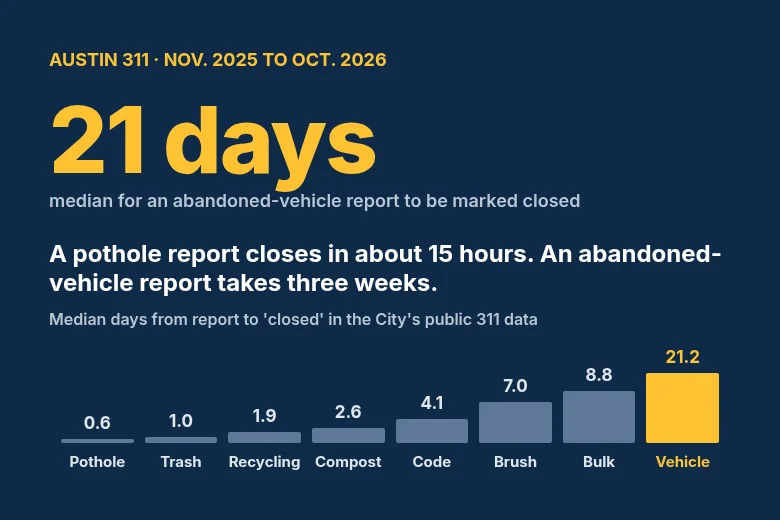
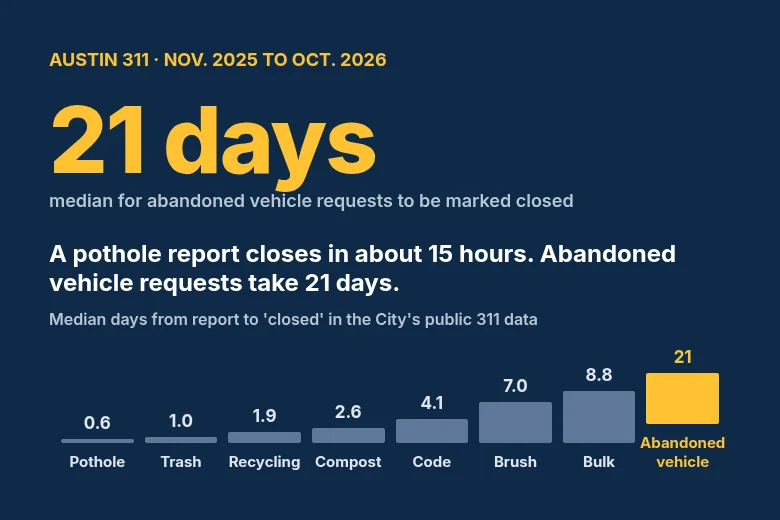
311 page: monthly refresh script and data-driven prose (#108)
* 311 page: monthly refresh script, and prose that follows the data

scripts/refresh-311.mjs (npm run refresh:311) reruns the 311 numbers on the 1st of the month: pulls the new 12-month window, rebuilds data/311-chart.json from the new medians, and re-renders the chart images. The district sentence, page description, chart alt text, dates and month labels are now built from the data in feature311.json instead of hard-coded, and tests guard the remaining prose claims.

* refresh-311: skip only when the page already covers the newest complete month

diff --git a/src/austin-311-response-times/index.md b/src/austin-311-response-times/index.md
@@ -1,7 +1,8 @@
 ---
 layout: layout.njk
 title: "How long Austin takes to close your 311 request"
-description: "An original Austin Bulletin analysis of 273,134 City of Austin 311 service requests from November 2025 through October 2026: how long each common request takes to be marked closed, what each Council district reports most, and what that means when you file one."
+eleventyComputed:
+  description: "{{ feature311.description }}"
 permalink: "/austin-311-response-times/"
 ---
 {%- set d = feature311 -%}
@@ -13,12 +14,12 @@ permalink: "/austin-311-response-times/"
 
 ## How long Austin takes to close your 311 request
 
-**An original Austin Bulletin data analysis. Data: [City of Austin 311 public data]({{ d.dataset }}), every service request created from November 1, 2025 through October 31, 2026, pulled November 24, 2026.** This page measures how long requests stayed open in the City's system. It does not measure whether the work was done well. The City updates the dataset every day, so a live query can differ slightly from the figures here.
+**An original Austin Bulletin data analysis. Data: [City of Austin 311 public data]({{ d.dataset }}), every service request created from {{ d.fromLabel }} through {{ d.toLabel }}, pulled {{ d.generatedLabel }}.** This page measures how long requests stayed open in the City's system. It does not measure whether the work was done well. The City updates the dataset every day, so a live query can differ slightly from the figures here.
 
 <figure class="data-feature-chart">
 <picture>
-<source media="(max-width: 700px)" srcset="/images/features/austin-311-response-times-phone-780.webp">
-<img src="/images/features/austin-311-response-times-desktop-1600.webp" width="1600" height="1067" alt="Bar chart of median days from a 311 report to the City marking it closed, November 2025 to October 2026: pothole 0.6, trash 1.0, recycling 1.9, compost 2.6, code officer visit 4.1, brush 7.0, bulk items 8.8, abandoned vehicle 21.2." loading="eager" decoding="async">
+<source media="(max-width: 700px)" srcset="/images/features/austin-311-response-times-phone-780.webp?v={{ d.generated }}">
+<img src="/images/features/austin-311-response-times-desktop-1600.webp?v={{ d.generated }}" width="1600" height="1067" alt="{{ d.chartAlt }}" loading="eager" decoding="async">
 </picture>
 <figcaption>Median time from report to "closed." Requests marked duplicate and requests still open are left out. Chart: The Austin Bulletin, from <a href="{{ d.dataset }}">City of Austin 311 data</a>.</figcaption>
 </figure>
@@ -73,7 +74,7 @@ Districts are where the request was located. {{ d.noDistrict | commas }} request
 </table>
 </div>
 
-Parking-violation reports lead in Districts 1 and 9. Code-officer requests lead in Districts 3 and 4. Trash leads in Districts 2, 5, 6, 7, 8 and 10. To find your district, use the City's [district lookup](https://www.austintexas.gov/council/district-map). For what the City Council decided about your district, see [Y'all, City Hall](https://yallcityhall.org/).
+{{ d.districtSentence }} To find your district, use the City's [district lookup](https://www.austintexas.gov/council/district-map). For what the City Council decided about your district, see [Y'all, City Hall](https://yallcityhall.org/).
 
 ### How people reach 311, and when
 
@@ -83,9 +84,9 @@ Parking-violation reports lead in Districts 1 and 9. Code-officer requests lead 
 - **{{ m.method }}** (the City's label): [{{ m.n | commas }}]({{ d.methodQuery }})
 {%- endfor %}
 
-Requests rise in spring and early summer. The busiest month was **[{{ (d.months | sort(true, false, "n") | first).label }}]({{ d.monthQuery }})** with {{ (d.months | sort(true, false, "n") | first).n | commas }} requests. The quietest was **[{{ (d.months | sort(false, false, "n") | first).label }}]({{ d.monthQuery }})** with {{ (d.months | sort(false, false, "n") | first).n | commas }}.
+The busiest month was **[{{ (d.months | sort(true, false, "n") | first).label }}]({{ d.monthQuery }})** with {{ (d.months | sort(true, false, "n") | first).n | commas }} requests. The quietest was **[{{ (d.months | sort(false, false, "n") | first).label }}]({{ d.monthQuery }})** with {{ (d.months | sort(false, false, "n") | first).n | commas }}.
 
-<div class="data-months" role="img" aria-label="311 requests by month, November 2025 to October 2026">
+<div class="data-months" role="img" aria-label="311 requests by month, {{ d.period }}">
 {%- set maxMonth = (d.months | sort(true, false, "n") | first).n %}
 {%- for m in d.months %}
 <div class="data-month"><span class="data-month-label">{{ m.short }}</span><span class="data-month-bar" style="--w: {{ ((m.n / maxMonth) * 100) | round(1) }}%"></span><span class="data-month-n">{{ m.n | commas }}</span></div>
@@ -96,7 +97,7 @@ Requests rise in spring and early summer. The busiest month was **[{{ (d.months 
 
 - **Data:** the City of Austin's [311 public data]({{ d.dataset }}), public domain. The City says the data comes from its 311 production system and refreshes every day.
 - **Window:** every request created from {{ d.fromLabel }} through {{ d.toLabel }}, by the date the City recorded.
-- **Time to close:** the City's closed time minus its created time. Only requests with a "Closed" status count. Duplicates and open requests are left out, so a type with many open requests may look faster than it really is. The "Still open" column shows how many were open on November 24.
+- **Time to close:** the City's closed time minus its created time. Only requests with a "Closed" status count. Duplicates and open requests are left out, so a type with many open requests may look faster than it really is. The "Still open" column shows how many were open on {{ d.generatedLabel }}.
 - **Code:** the [script that builds every number on this page](https://github.com/evanmack45/austin-bulletin/blob/main/scripts/data-311.mjs) is public. Anyone can rerun it.
 - The Austin Bulletin is produced with AI and reviewed against the source data. It takes no position on City services or budgets. [Corrections](/corrections/)
 
